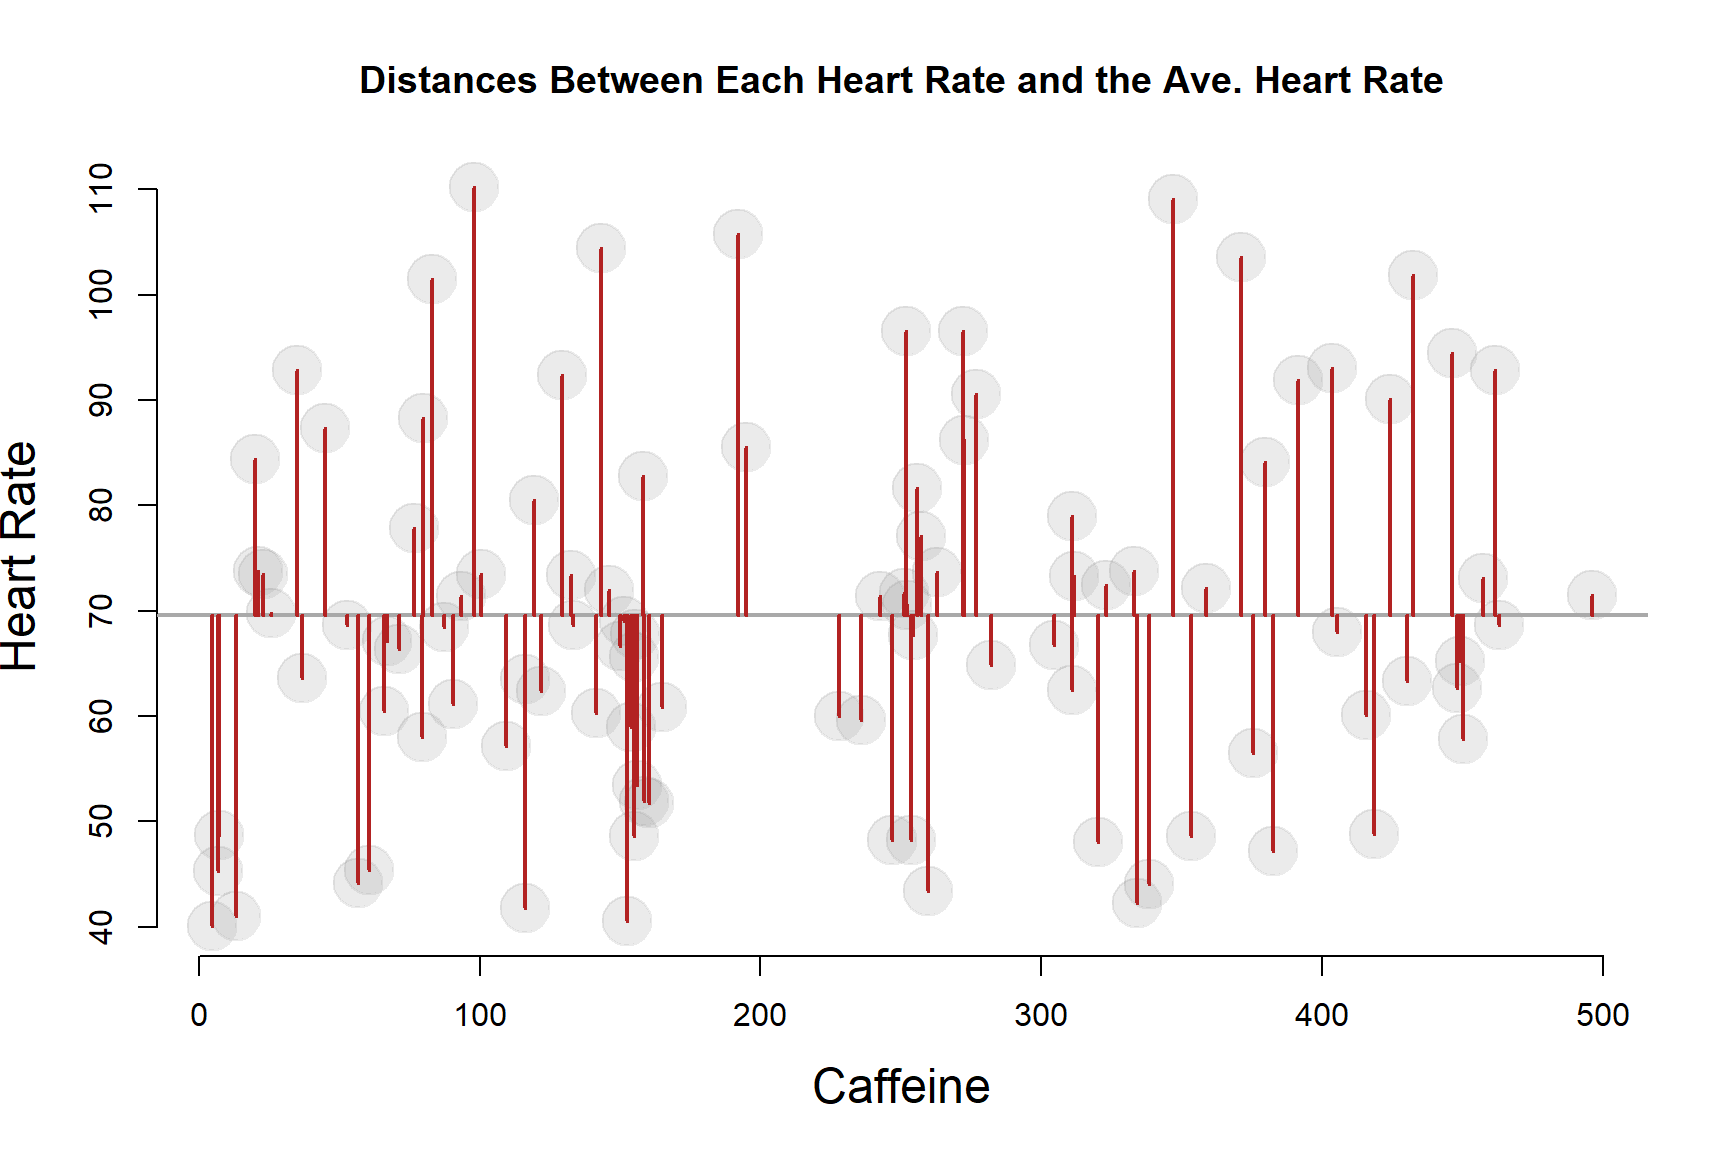
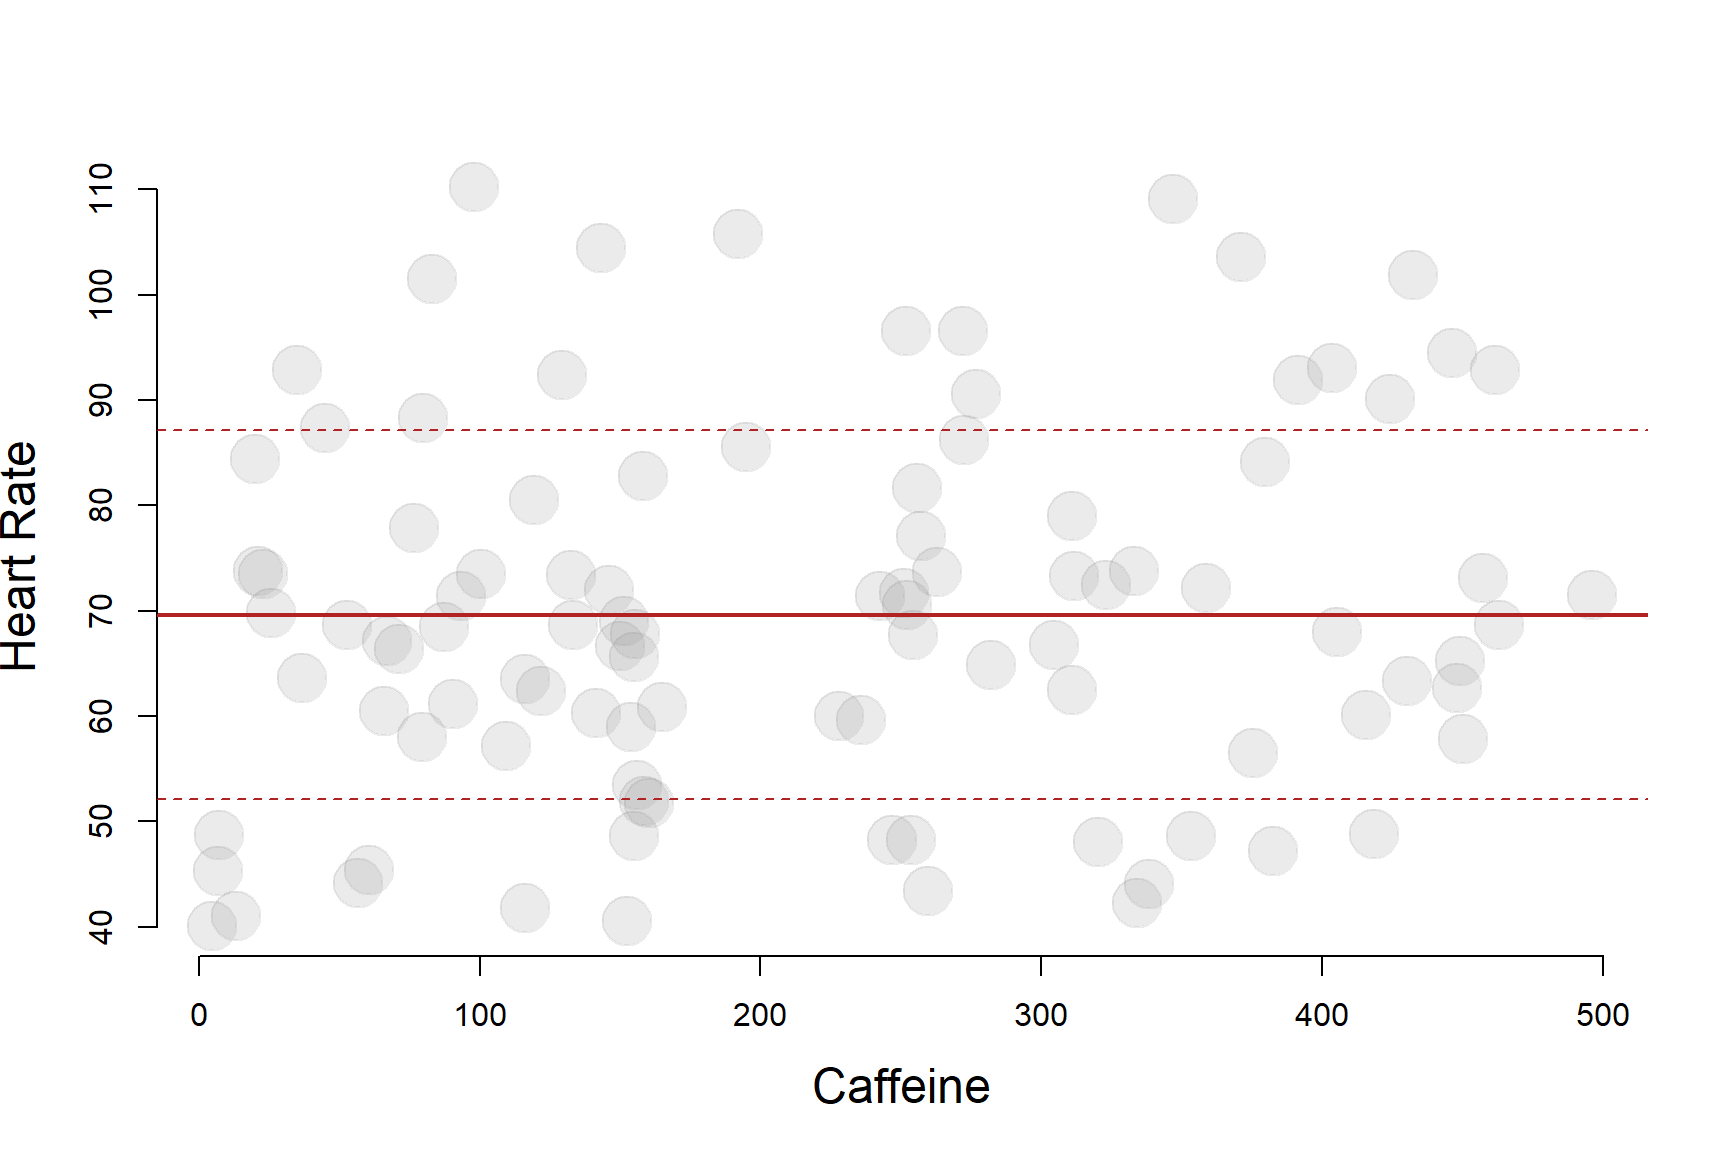
update lecture

diff --git a/lectures/caffeine.html b/lectures/caffeine.html
@@ -158,7 +158,7 @@ The models give us a guess for what the heart rate will be for subjects within a
 <p><br></p>
 <table style="text-align:center">
 <tr>
-<td colspan="5" style="border-bottom: 1px solid black">
+<td colspan="4" style="border-bottom: 1px solid black">
 </td>
 </tr>
 <tr>
@@ -173,12 +173,9 @@ ave.heart
 <td>
 predicted.heart
 </td>
-<td>
-difference
-</td>
 </tr>
 <tr>
-<td colspan="5" style="border-bottom: 1px solid black">
+<td colspan="4" style="border-bottom: 1px solid black">
 </td>
 </tr>
 <tr>
@@ -194,9 +191,6 @@ difference
 <td>
 73.565
 </td>
-<td>
-7.138
-</td>
 </tr>
 <tr>
 <td style="text-align:left">
@@ -210,9 +204,6 @@ difference
 </td>
 <td>
 77.756
-</td>
-<td>
--1.830
 </td>
 </tr>
 <tr>
@@ -228,9 +219,6 @@ difference
 <td>
 81.947
 </td>
-<td>
-2.032
-</td>
 </tr>
 <tr>
 <td style="text-align:left">
@@ -244,9 +232,6 @@ difference
 </td>
 <td>
 86.138
-</td>
-<td>
--10.484
 </td>
 </tr>
 <tr>
@@ -262,9 +247,6 @@ difference
 <td>
 90.329
 </td>
-<td>
--0.592
-</td>
 </tr>
 <tr>
 <td style="text-align:left">
@@ -278,9 +260,6 @@ difference
 </td>
 <td>
 94.520
-</td>
-<td>
--1.299
 </td>
 </tr>
 <tr>
@@ -296,9 +275,6 @@ difference
 <td>
 98.711
 </td>
-<td>
--0.666
-</td>
 </tr>
 <tr>
 <td style="text-align:left">
@@ -312,9 +288,6 @@ difference
 </td>
 <td>
 102.902
-</td>
-<td>
-12.924
 </td>
 </tr>
 <tr>
@@ -330,9 +303,6 @@ difference
 <td>
 107.093
 </td>
-<td>
--3.613
-</td>
 </tr>
 <tr>
 <td style="text-align:left">
@@ -347,15 +317,21 @@ difference
 <td>
 111.284
 </td>
-<td>
-1.925
-</td>
 </tr>
 <tr>
-<td colspan="5" style="border-bottom: 1px solid black">
+<td colspan="4" style="border-bottom: 1px solid black">
 </td>
 </tr>
 </table>
+<p>Another way to think about a regression line is a set of predictions for where we expect Y to be based upon an observed value of X. I am guessing the value of Y based upon information I have on X.</p>
+<p>If we have no information on an individual, then our best guess of their level of Y will be the population mean of Y. It is a very crude way to make a prediction, but it is far better than selecting a number at random.</p>
+<p>If we only have information about an individual regarding X, then the predicted value of Y conditional on X is our best guess of what the outcome measure might be for that individual.</p>
+<p>The strength of our regression model is to some extend a measure of how much our prediction of the true value of Y for an individual improves over simply using the population mean.</p>
+<p>When we cover hypothesis testing, we will see that the null hypothesis in regression models is actually just that we can’t improve our predictions about Y by using information on X. Using the population mean of Y to predict the outcome is just as good as using the regression model.</p>
+<p>We use the notation <span class="math inline">\(\hat{y}\)</span> to represent predicted values of Y.</p>
+<p>Consequently, we will sometimes use <span class="math inline">\(\hat{y}\)</span> as shorthand for the regression line.</p>
+<p><img src="caffeine_files/figure-html/unnamed-chunk-10-1.png" width="864" /></p>
+<p><br> <br></p>
 </div>
 </div>
 <div id="formula-for-the-regression" class="section level1">
@@ -500,13 +476,13 @@ Residual Std. Error
 <p>Let’s consider the study population before they received the treatment in order to examine the distribution of heart rates through the population - the variance of heart rate.</p>
 <p>The solid red line represents the population mean, and the dotted red lines fall one standard deviation from the mean in either direction.</p>
 <p>What does a <strong>standard deviation</strong> actually mean, though?</p>
-<p><img src="caffeine_files/figure-html/unnamed-chunk-12-1.png" width="864" /></p>
-<p>If we return to the scatterplot view of the data, we can present the same information using datapoints instead of a density plot. The solid red line represents the population mean, and the dotted red lines fall one standard deviation from the mean in either direction.</p>
 <p><img src="caffeine_files/figure-html/unnamed-chunk-13-1.png" width="864" /></p>
+<p>If we return to the scatterplot view of the data, we can present the same information using datapoints instead of a density plot. The solid red line represents the population mean, and the dotted red lines fall one standard deviation from the mean in either direction.</p>
+<p><img src="caffeine_files/figure-html/unnamed-chunk-14-1.png" width="864" /></p>
 <div id="the-standard-deviation" class="section level2">
 <h2><span class="header-section-number">3.1</span> The Standard Deviation</h2>
 <p>In very simple (and not mathematically correct) terms, the standard deviation is the <strong>“average” distance from each data point to the mean</strong>.</p>
-<p><img src="caffeine_files/figure-html/unnamed-chunk-14-1.png" width="864" /></p>
+<p><img src="caffeine_files/figure-html/unnamed-chunk-15-1.png" width="864" /></p>
 <p>We use the term “average” loosely because the standard deviation actually measures <strong>squared deviations</strong> from the mean to calculate variance, then take the <strong>square root of the sum</strong> to get the measures back to the original units.</p>
 <p>The <strong>standard deviation</strong> would be a true average if we had used the absolute value of distances from the mean, but the intuition is the same.</p>
 <p><br></p>
@@ -518,9 +494,9 @@ Residual Std. Error
 </div>
 <p><br></p>
 <p>Let’s drill down to the first ten observations to examine this a little closer:</p>
-<p><img src="caffeine_files/figure-html/unnamed-chunk-15-1.png" width="864" /></p>
-<p><span class="math inline">\(deviation_i = y_i - \bar{y}\)</span></p>
 <p><img src="caffeine_files/figure-html/unnamed-chunk-16-1.png" width="864" /></p>
+<p><span class="math inline">\(deviation_i = y_i - \bar{y}\)</span></p>
+<p><img src="caffeine_files/figure-html/unnamed-chunk-17-1.png" width="864" /></p>
 <table style="width:78%;">
 <colgroup>
 <col width="8%" />
@@ -632,7 +608,7 @@ Residual Std. Error
 <h1><span class="header-section-number">4</span> R-Squared: Explaining Variance</h1>
 <p>Now that we are comfortable with the idea of measuring deviations, and variance being the sum of the squared deviations, we are ready to tackle the idea of “explaining” variance.</p>
 <p>It is important to first note that one nuance worth paying attention to is the subtle difference between the deviations from the mean that comprise the TOTAL VARIANCE calculation, and the residual terms that comprise the REGESSION or EXPLAINED VARIANCE calculation.</p>
-<p><img src="caffeine_files/figure-html/unnamed-chunk-18-1.png" width="1152" /></p>
+<p><img src="caffeine_files/figure-html/unnamed-chunk-19-1.png" width="1152" /></p>
 <p>The variance of the regression will always be smaller than the total variance because the regression line is chosen so it is closer to the data points.</p>
 <div id="sums-of-squares" class="section level2">
 <h2><span class="header-section-number">4.1</span> Sums of Squares</h2>
@@ -649,7 +625,7 @@ Residual Std. Error
 <p>Also note that TOTAL SS divided by (n-1) is the variance of Y, so the statement above is the same as saying the TOTAL VARIANCE of Y can be decomposed into an EXPLAINED portion of the variance and an UNEXPLAINED portion of the variance.</p>
 <p>Thus <span class="math inline">\(R^2 = Regression \ SS / Total SS\)</span>, or <span class="math inline">\(R^2\)</span> is measuring the explained portion of the variance of the dependent variable in the model.</p>
 <p>Visually it would look something like this:</p>
-<p><img src="caffeine_files/figure-html/unnamed-chunk-19-1.png" width="864" /></p>
+<p><img src="caffeine_files/figure-html/unnamed-chunk-20-1.png" width="864" /></p>
 <p><br></p>
 <div class="tip">
 <p><br></p>
@@ -824,7 +800,7 @@ Residual Std. Error
 </td>
 </tr>
 </table>
-<p><img src="caffeine_files/figure-html/unnamed-chunk-23-1.png" width="864" /></p>
+<p><img src="caffeine_files/figure-html/unnamed-chunk-24-1.png" width="864" /></p>
 <p><br></p>
 <div class="tip">
 <p><br></p>
